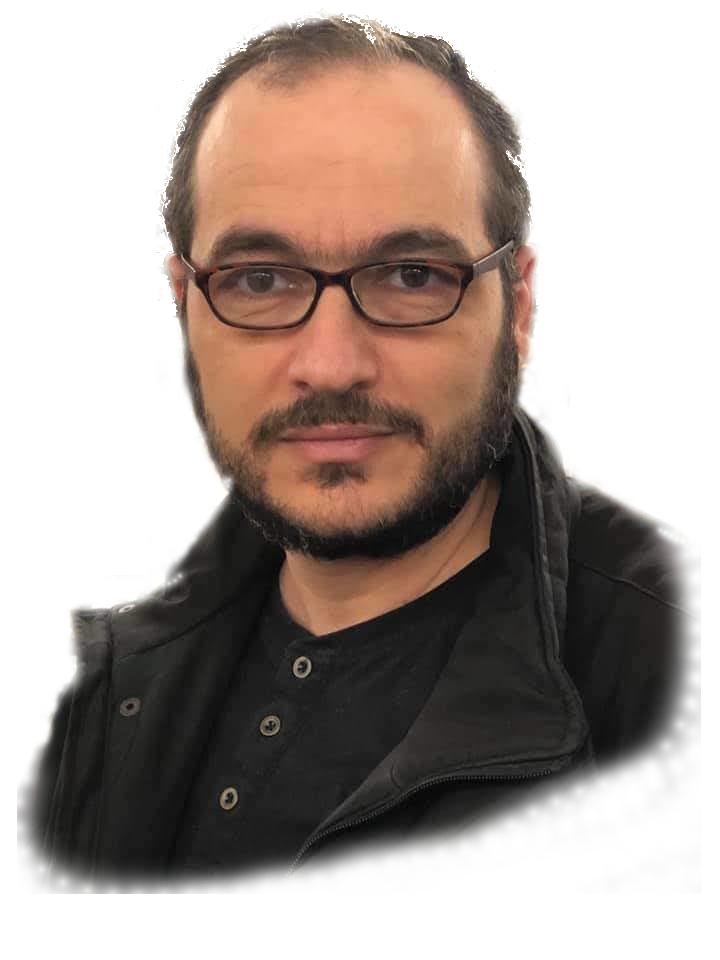
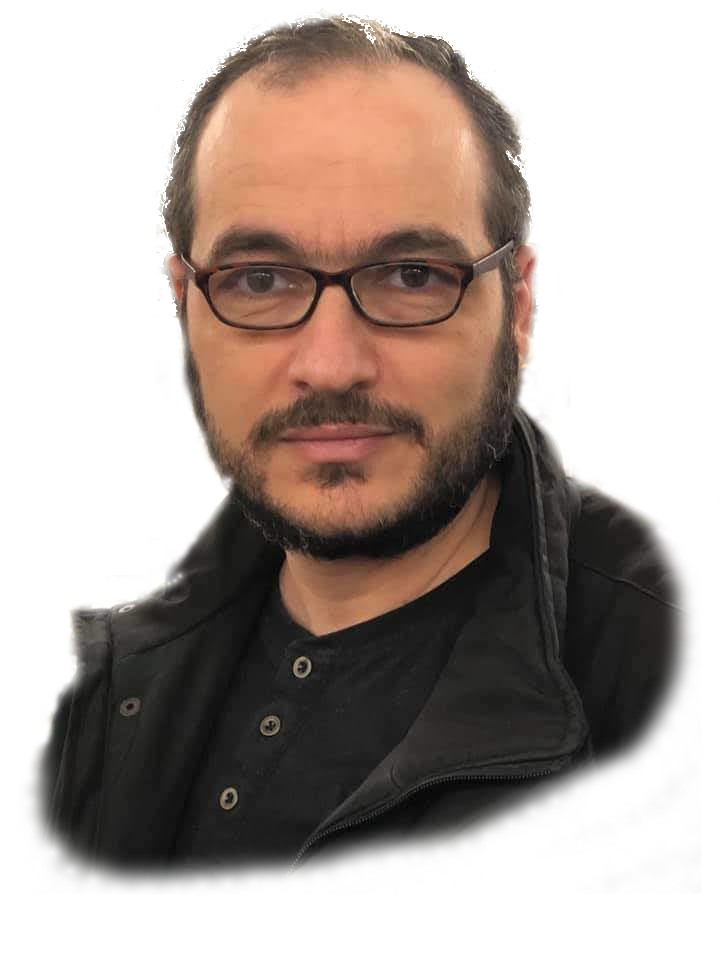
new Layout

Changed region(s): [[0.0, 0.7812, 0.3972, 0.9375], [0.7333, 0.5312, 0.9778, 0.8438]]

diff --git a/src/components/CardPicAction.vue b/src/components/CardPicAction.vue
@@ -1,16 +1,18 @@
  <template>
     <div
-        class="rounded-lg bg-white shadow-secondary-1 dark:bg-surface-dark place-items-center lg:flex">
+        class="rounded-lg bg-white shadow-secondary-1 dark:bg-surface-dark place-items-center lg:flex my-20">
+    
         <img
-            class="rounded-t-lg size-auto opacity-50"
-            :src="picture"
+            :class="picClasses"
+            :src="picture.fileName"
+
             alt="" />
     
-    
+            {{ picClasses }}
     <div class="p-6 text-surface dark:text-white">
         <h5 class="mb-2 text-5xl font-medium leading-tight text-black">{{ title }}</h5>
         <p class="mb-4 font-bold text-gray-500 text-lg">
-        {{text}}
+            {{text}}
         </p>
         <!--
         <button
@@ -33,9 +35,13 @@
  }
 </script>
 <script lang="ts" setup>
+import { unwatchFile } from 'fs';
+import type { CardPic } from '../model/CardPic';
+import { PropType, ref } from 'vue'
 const props = defineProps({
     picture: {
-        
+        type: Object as PropType<CardPic>,
+        default:{fileName: '',opacity: 50}
     },
 
     title: String,
@@ -43,6 +49,7 @@ const props = defineProps({
 
 
 })
+const picClasses = ref(`rounded-t-lg size-auto opacity-${props.picture.opacity!=undefined?props.picture.opacity:50}`);
 </script>
  <style>
  

diff --git a/src/views/HomeView.vue b/src/views/HomeView.vue
@@ -25,18 +25,12 @@
           <img src="../assets/MJ_2.png" class="rounded-3xl size-1/2 opacity-50" />
         </div>
         </div>
-      <p
-        variant="lead"
-        class="mb-4 !text-gray-500 md:pr-16 xl:pr-28"
-      >
-        I&apos;m Mohammed Jamil, a passionate developer based in Germany. Here,
-        you&apos;ll get a glimpse of my journey in the world of 
-        development, where creativity meets functionality.
-      </p>
-
     </section>
 
-    <Box>
+    <CardPicAction 
+      :picture="{fileName: 'assets/MJ_2.png'}" title="IT Consultant" :text="infoText" />
+    
+      <Box>
     <template #front>
       <p class="text-2xl font-sans font-bold py-10">MJamil</p> 
     </template>
@@ -69,7 +63,7 @@
       </div>
     </template>
   </Box>
-  <CardPicAction picture="assets/MJ_2.png" title="IT Consultant" :text="infoText" />
+
 
 </main>
 </template>
